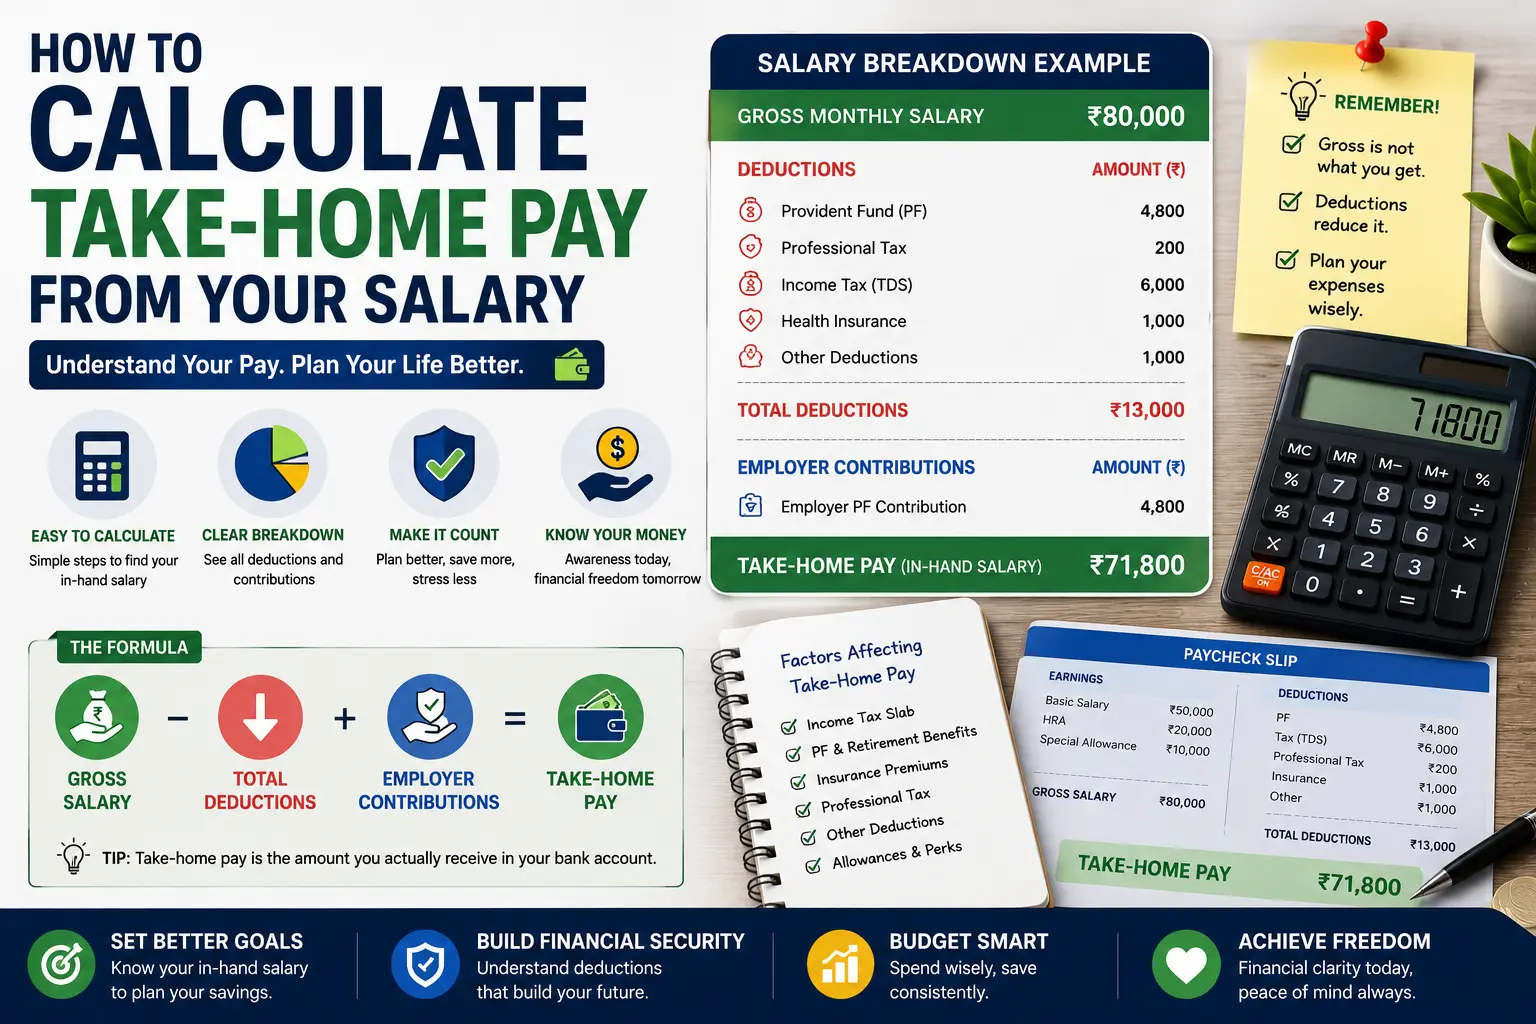
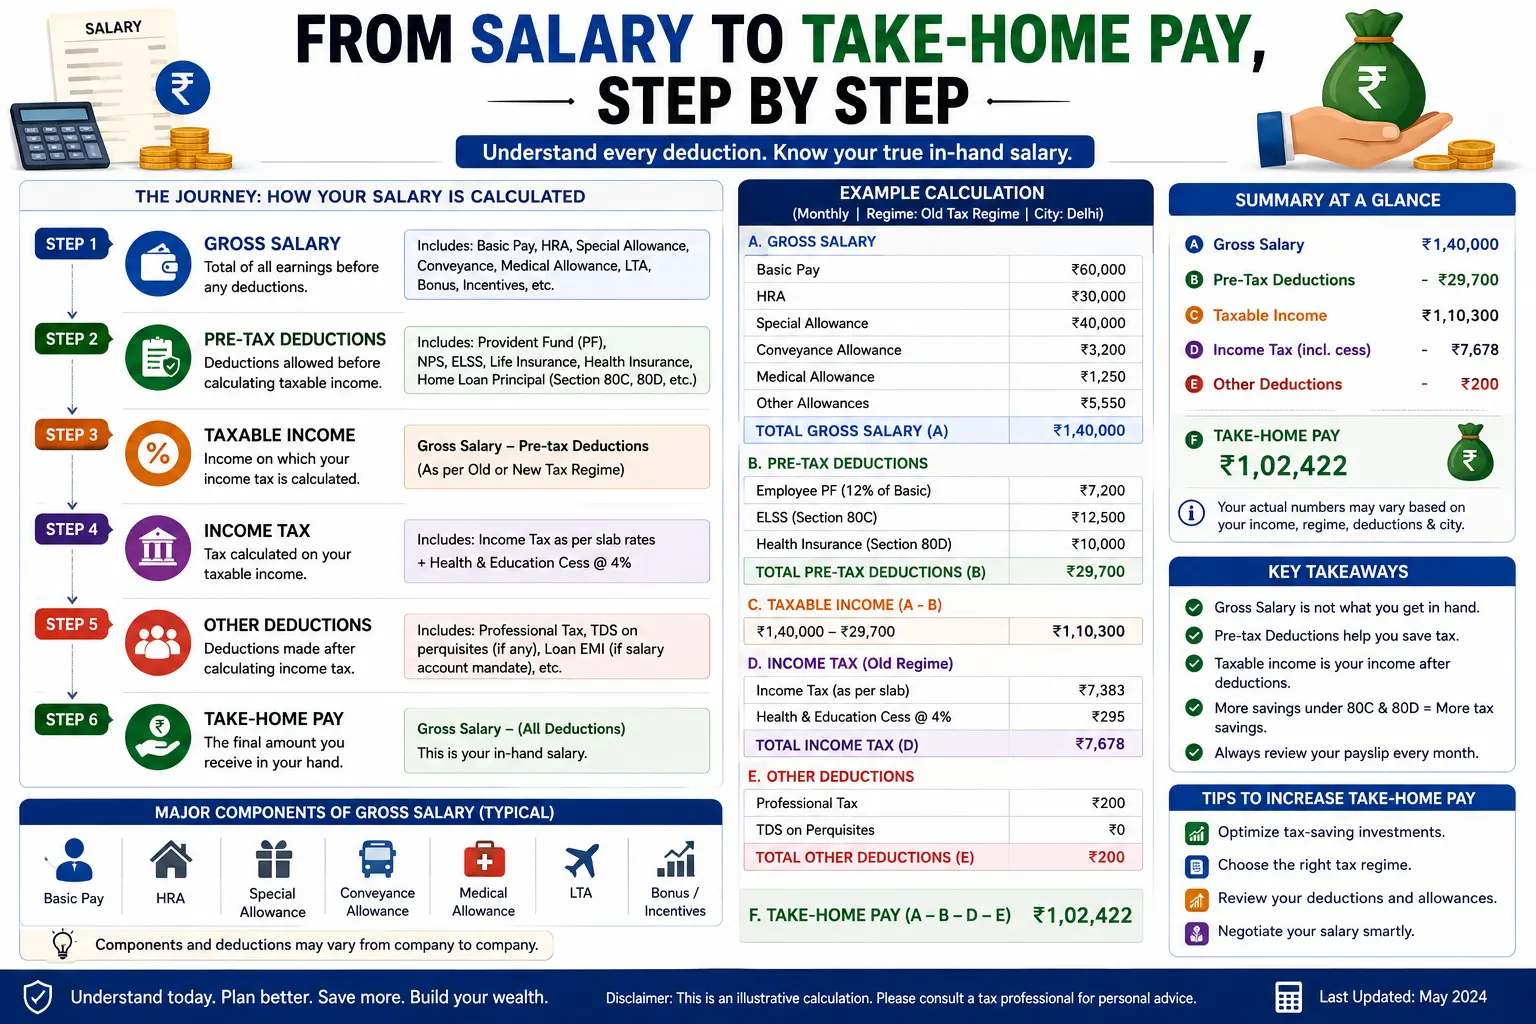
Featured images: final 4 user-provided webps
- cagr-vs-absolute-returns, credit-card-emi-vs-personal-loan,
  hra-exemption-calculation-example installed + all refs swapped
- how-to-calculate-take-home-pay image overwritten in place
- All 21 SEO articles now carry their own featured images (116 refs verified)

diff --git a/blog/hra-exemption-calculation-example.html b/blog/hra-exemption-calculation-example.html
@@ -20,14 +20,14 @@
   <meta property="og:description" content="HRA exemption calculation with worked example: the three-rule least-of formula, metro vs non-metro, old-regime only, common mistakes — with a free HRA calculator.">
   <meta property="og:type" content="article">
   <meta property="og:url" content="https://www.decidecalc.com/blog/hra-exemption-calculation-example">
-  <meta property="og:image" content="https://www.decidecalc.com/assets/img/blog/income-tax-calculator-india-2025-26.webp">
+  <meta property="og:image" content="https://www.decidecalc.com/assets/img/blog/hra-exemption-calculation-example.webp">
   <meta property="og:image:width" content="1536">
   <meta property="og:image:height" content="1024">
   <meta name="twitter:card" content="summary_large_image">
   <meta name="twitter:title" content="HRA Exemption Calculation With Example (2026): How Much Tax Can You Save? | DecideCalc">
   <meta name="twitter:description" content="HRA exemption calculation with worked example: the three-rule least-of formula, metro vs non-metro, old-regime only, common mistakes — with a free HRA calculator.">
-  <meta name="twitter:image" content="https://www.decidecalc.com/assets/img/blog/income-tax-calculator-india-2025-26.webp">
-  <script type="application/ld+json">{"@context":"https://schema.org","@type":"Article","headline":"HRA Exemption Explained: How Much Tax Can You Actually Save?","description":"HRA exemption calculation with worked example: the three-rule least-of formula, metro vs non-metro, old-regime only, common mistakes — with a free HRA calculator.","author":{"@type":"Organization","name":"DecideCalc"},"publisher":{"@type":"Organization","name":"DecideCalc"},"mainEntityOfPage":"https://www.decidecalc.com/blog/hra-exemption-calculation-example","image":{"@type":"ImageObject","url":"https://www.decidecalc.com/assets/img/blog/income-tax-calculator-india-2025-26.webp","width":1536,"height":1024},"datePublished":"2026-08-16","dateModified":"2026-08-16"}</script>
+  <meta name="twitter:image" content="https://www.decidecalc.com/assets/img/blog/hra-exemption-calculation-example.webp">
+  <script type="application/ld+json">{"@context":"https://schema.org","@type":"Article","headline":"HRA Exemption Explained: How Much Tax Can You Actually Save?","description":"HRA exemption calculation with worked example: the three-rule least-of formula, metro vs non-metro, old-regime only, common mistakes — with a free HRA calculator.","author":{"@type":"Organization","name":"DecideCalc"},"publisher":{"@type":"Organization","name":"DecideCalc"},"mainEntityOfPage":"https://www.decidecalc.com/blog/hra-exemption-calculation-example","image":{"@type":"ImageObject","url":"https://www.decidecalc.com/assets/img/blog/hra-exemption-calculation-example.webp","width":1536,"height":1024},"datePublished":"2026-08-16","dateModified":"2026-08-16"}</script>
   <script type="application/ld+json">{"@context":"https://schema.org","@type":"FAQPage","mainEntity":[{"@type":"Question","name":"How is HRA exemption calculated?","acceptedAnswer":{"@type":"Answer","text":"It is the least of: (1) actual HRA received, (2) rent paid minus 10% of basic + DA, (3) 50% of basic + DA in metros (Delhi, Mumbai, Kolkata, Chennai) or 40% elsewhere."}},{"@type":"Question","name":"Can I claim HRA exemption in the new tax regime?","acceptedAnswer":{"@type":"Answer","text":"No — HRA exemption is available only under the old regime. If your rent is high, this alone can make the old regime cheaper despite the new regime’s lower slabs."}},{"@type":"Question","name":"Is Bengaluru a metro city for HRA?","acceptedAnswer":{"@type":"Answer","text":"No. Only Delhi, Mumbai, Kolkata and Chennai qualify for the 50% rule; Bengaluru, Hyderabad, Pune and all other cities use 40%."}},{"@type":"Question","name":"Can I pay rent to my parents and claim HRA?","acceptedAnswer":{"@type":"Answer","text":"Yes, if genuine: an actual rent agreement, real monthly transfers, and the parents reporting it as taxable income. Documentary honesty is what survives scrutiny."}},{"@type":"Question","name":"What if I pay rent but my employer does not pay me HRA?","acceptedAnswer":{"@type":"Answer","text":"There is no HRA exemption without HRA in your salary. Self-employed taxpayers instead get the far smaller Section 80GG deduction (capped at ₹5,000/month) under the old regime."}},{"@type":"Question","name":"What documents do I need for an HRA claim?","acceptedAnswer":{"@type":"Answer","text":"Rent receipts or bank transfer records, the rent agreement, and the landlord’s PAN if total yearly rent exceeds ₹1 lakh."}}]}</script>
 <script type="application/ld+json">{"@context":"https://schema.org","@type":"BreadcrumbList","itemListElement":[{"@type":"ListItem","position":1,"name":"Home","item":"https://www.decidecalc.com/"},{"@type":"ListItem","position":2,"name":"Blog","item":"https://www.decidecalc.com/blog/"},{"@type":"ListItem","position":3,"name":"HRA Exemption Calculation With Example"}]}</script>
   <!-- Google tag (gtag.js) -->
@@ -43,7 +43,7 @@
   <main class="container blog-post" style="padding-top:30px;padding-bottom:60px">
     <nav class="breadcrumb"><a href="/">Home</a><span class="sep">/</span><a href="/blog/">Blog</a><span class="sep">/</span><span>HRA Exemption</span></nav>
     <header class="article-header"><div class="article-meta-top"><span class="article-cat">Salary & tax</span><span class="article-date">August 16, 2026</span></div><h1>HRA Exemption Explained: How Much Tax Can You Actually Save?</h1><p class="article-subtitle">The least of three numbers decides your HRA exemption — and only in the old regime. Here is the formula, three worked examples, and the mistakes that trigger notices.</p></header>
-    <div class="article-hero-img"><img src="/assets/img/blog/income-tax-calculator-india-2025-26.webp" alt="HRA exemption calculation example India — three-rule least of formula with metro and non-metro worked cases" loading="eager" decoding="async" fetchpriority="high" style="width:100%;height:auto;aspect-ratio:1536/1024;object-fit:cover;display:block"></div>
+    <div class="article-hero-img"><img src="/assets/img/blog/hra-exemption-calculation-example.webp" alt="HRA exemption calculation example India — three-rule least of formula with metro and non-metro worked cases" loading="eager" decoding="async" fetchpriority="high" style="width:100%;height:auto;aspect-ratio:1536/1024;object-fit:cover;display:block"></div>
     <article class="article-content">
       <p>House Rent Allowance is the most commonly claimed — and most commonly mis-claimed — salary exemption in India. The calculation itself is one line: your exemption is the <strong>least of three amounts</strong>. The trouble is in the inputs: which city counts as metro, whose rent counts, and the ₹1 lakh/year cash-payment reporting rule. Work through the examples below and your claim will survive any notice.</p>
 

diff --git a/blog/credit-card-emi-vs-personal-loan.html b/blog/credit-card-emi-vs-personal-loan.html
@@ -20,14 +20,14 @@
   <meta property="og:description" content="Credit card EMI vs personal loan: interest rates, processing fees, GST and foreclosure compared on a ₹1 lakh, 12-month example — when the card is cheaper, and when it is a trap.">
   <meta property="og:type" content="article">
   <meta property="og:url" content="https://www.decidecalc.com/blog/credit-card-emi-vs-personal-loan">
-  <meta property="og:image" content="https://www.decidecalc.com/assets/img/blog/credit-card-minimum-payment-payoff-india.webp">
+  <meta property="og:image" content="https://www.decidecalc.com/assets/img/blog/credit-card-emi-vs-personal-loan.webp">
   <meta property="og:image:width" content="1536">
   <meta property="og:image:height" content="1024">
   <meta name="twitter:card" content="summary_large_image">
   <meta name="twitter:title" content="Credit Card EMI vs Personal Loan: Which Costs Less in India? (2026) | DecideCalc">
   <meta name="twitter:description" content="Credit card EMI vs personal loan: interest rates, processing fees, GST and foreclosure compared on a ₹1 lakh, 12-month example — when the card is cheaper, and when it is a trap.">
-  <meta name="twitter:image" content="https://www.decidecalc.com/assets/img/blog/credit-card-minimum-payment-payoff-india.webp">
-  <script type="application/ld+json">{"@context":"https://schema.org","@type":"Article","headline":"Credit Card EMI vs Personal Loan: Which Costs Less?","description":"Credit card EMI vs personal loan: interest rates, processing fees, GST and foreclosure compared on a ₹1 lakh, 12-month example — when the card is cheaper, and when it is a trap.","author":{"@type":"Organization","name":"DecideCalc"},"publisher":{"@type":"Organization","name":"DecideCalc"},"mainEntityOfPage":"https://www.decidecalc.com/blog/credit-card-emi-vs-personal-loan","image":{"@type":"ImageObject","url":"https://www.decidecalc.com/assets/img/blog/credit-card-minimum-payment-payoff-india.webp","width":1536,"height":1024},"datePublished":"2026-08-16","dateModified":"2026-08-16"}</script>
+  <meta name="twitter:image" content="https://www.decidecalc.com/assets/img/blog/credit-card-emi-vs-personal-loan.webp">
+  <script type="application/ld+json">{"@context":"https://schema.org","@type":"Article","headline":"Credit Card EMI vs Personal Loan: Which Costs Less?","description":"Credit card EMI vs personal loan: interest rates, processing fees, GST and foreclosure compared on a ₹1 lakh, 12-month example — when the card is cheaper, and when it is a trap.","author":{"@type":"Organization","name":"DecideCalc"},"publisher":{"@type":"Organization","name":"DecideCalc"},"mainEntityOfPage":"https://www.decidecalc.com/blog/credit-card-emi-vs-personal-loan","image":{"@type":"ImageObject","url":"https://www.decidecalc.com/assets/img/blog/credit-card-emi-vs-personal-loan.webp","width":1536,"height":1024},"datePublished":"2026-08-16","dateModified":"2026-08-16"}</script>
   <script type="application/ld+json">{"@context":"https://schema.org","@type":"FAQPage","mainEntity":[{"@type":"Question","name":"Which is cheaper — credit card EMI or personal loan?","acceptedAnswer":{"@type":"Answer","text":"For amounts above ~₹1 lakh or tenures beyond a year, personal loans usually win by ₹10,000–50,000 (lower reducing-balance rate, no GST on interest). For small, short purchases, a card EMI or no-cost EMI is fine."}},{"@type":"Question","name":"Why is credit card EMI interest charged with GST?","acceptedAnswer":{"@type":"Answer","text":"Card EMIs are structured as a service by the card issuer, so 18% GST applies on the interest component (and fees). Personal-loan interest is exempt from GST — only the processing fee attracts it."}},{"@type":"Question","name":"What does a 16% flat rate mean on a card EMI?","acceptedAnswer":{"@type":"Answer","text":"Flat rates are charged on the full original principal for the whole tenure. A 16% flat rate approximates 28–30% on a reducing-balance basis — roughly double the number advertised."}},{"@type":"Question","name":"Does converting a purchase to EMI hurt my credit score?","acceptedAnswer":{"@type":"Answer","text":"The EMI blocks part of your card limit, raising utilisation if the limit is small — that can dip your score. It does not add a new loan account, and on-time EMI payments help over time."}},{"@type":"Question","name":"Can I prepay a credit card EMI?","acceptedAnswer":{"@type":"Answer","text":"Most issuers allow foreclosure with a 3–5% penalty on the outstanding plus GST. Some waive it after a set number of EMIs — check your issuer’s terms before converting."}}]}</script>
 <script type="application/ld+json">{"@context":"https://schema.org","@type":"BreadcrumbList","itemListElement":[{"@type":"ListItem","position":1,"name":"Home","item":"https://www.decidecalc.com/"},{"@type":"ListItem","position":2,"name":"Blog","item":"https://www.decidecalc.com/blog/"},{"@type":"ListItem","position":3,"name":"Credit Card EMI vs Personal Loan: Which Is Better?"}]}</script>
   <!-- Google tag (gtag.js) -->
@@ -43,7 +43,7 @@
   <main class="container blog-post" style="padding-top:30px;padding-bottom:60px">
     <nav class="breadcrumb"><a href="/">Home</a><span class="sep">/</span><a href="/blog/">Blog</a><span class="sep">/</span><span>Card EMI vs Personal Loan</span></nav>
     <header class="article-header"><div class="article-meta-top"><span class="article-cat">Loans</span><span class="article-date">August 16, 2026</span></div><h1>Credit Card EMI vs Personal Loan: Which Costs Less?</h1><p class="article-subtitle">Both convert a purchase into monthly payments. One is a 15-minute tap on your phone; the other is a 2-day approval. The 3%–8% rate gap decides which you should tap.</p></header>
-    <div class="article-hero-img"><img src="/assets/img/blog/credit-card-minimum-payment-payoff-india.webp" alt="Credit card EMI versus personal loan in India — interest, fees and total cost compared" loading="eager" decoding="async" fetchpriority="high" style="width:100%;height:auto;aspect-ratio:1536/1024;object-fit:cover;display:block"></div>
+    <div class="article-hero-img"><img src="/assets/img/blog/credit-card-emi-vs-personal-loan.webp" alt="Credit card EMI versus personal loan in India — interest, fees and total cost compared" loading="eager" decoding="async" fetchpriority="high" style="width:100%;height:auto;aspect-ratio:1536/1024;object-fit:cover;display:block"></div>
     <article class="article-content">
       <p>Big bill, empty wallet, two buttons: "Convert to EMI" on your credit card app, or a personal loan application. Card EMIs are instantly approved against your existing limit; personal loans take longer but price far lower for anyone with a decent credit score. This guide puts exact rupee numbers on the choice — including the GST trap nobody advertises.</p>
 

diff --git a/blog/cagr-vs-absolute-returns.html b/blog/cagr-vs-absolute-returns.html
@@ -20,14 +20,14 @@
   <meta property="og:description" content="CAGR vs absolute returns explained with a ₹5 lakh example: why your fund app’s headline number depends on the timeframe shown, plus the CAGR formula and free calculator.">
   <meta property="og:type" content="article">
   <meta property="og:url" content="https://www.decidecalc.com/blog/cagr-vs-absolute-returns">
-  <meta property="og:image" content="https://www.decidecalc.com/assets/img/blog/how-to-calculate-investment-return.webp">
+  <meta property="og:image" content="https://www.decidecalc.com/assets/img/blog/cagr-vs-absolute-returns.webp">
   <meta property="og:image:width" content="1536">
   <meta property="og:image:height" content="1024">
   <meta name="twitter:card" content="summary_large_image">
   <meta name="twitter:title" content="CAGR vs Absolute Returns: Why Your Mutual Fund App Might Mislead You (2026) | DecideCalc">
   <meta name="twitter:description" content="CAGR vs absolute returns explained with a ₹5 lakh example: why your fund app’s headline number depends on the timeframe shown, plus the CAGR formula and free calculator.">
-  <meta name="twitter:image" content="https://www.decidecalc.com/assets/img/blog/how-to-calculate-investment-return.webp">
-  <script type="application/ld+json">{"@context":"https://schema.org","@type":"Article","headline":"CAGR vs Absolute Returns: Why Your Mutual Fund App Might Mislead You","description":"CAGR vs absolute returns explained with a ₹5 lakh example: why your fund app’s headline number depends on the timeframe shown, plus the CAGR formula and free calculator.","author":{"@type":"Organization","name":"DecideCalc"},"publisher":{"@type":"Organization","name":"DecideCalc"},"mainEntityOfPage":"https://www.decidecalc.com/blog/cagr-vs-absolute-returns","image":{"@type":"ImageObject","url":"https://www.decidecalc.com/assets/img/blog/how-to-calculate-investment-return.webp","width":1536,"height":1024},"datePublished":"2026-08-16","dateModified":"2026-08-16"}</script>
+  <meta name="twitter:image" content="https://www.decidecalc.com/assets/img/blog/cagr-vs-absolute-returns.webp">
+  <script type="application/ld+json">{"@context":"https://schema.org","@type":"Article","headline":"CAGR vs Absolute Returns: Why Your Mutual Fund App Might Mislead You","description":"CAGR vs absolute returns explained with a ₹5 lakh example: why your fund app’s headline number depends on the timeframe shown, plus the CAGR formula and free calculator.","author":{"@type":"Organization","name":"DecideCalc"},"publisher":{"@type":"Organization","name":"DecideCalc"},"mainEntityOfPage":"https://www.decidecalc.com/blog/cagr-vs-absolute-returns","image":{"@type":"ImageObject","url":"https://www.decidecalc.com/assets/img/blog/cagr-vs-absolute-returns.webp","width":1536,"height":1024},"datePublished":"2026-08-16","dateModified":"2026-08-16"}</script>
   <script type="application/ld+json">{"@context":"https://schema.org","@type":"FAQPage","mainEntity":[{"@type":"Question","name":"What is the difference between absolute return and CAGR?","acceptedAnswer":{"@type":"Answer","text":"Absolute return is the total percentage change between start and end values. CAGR converts that into a smoothed per-year growth rate: (Final ÷ Initial)^(1/years) − 1. Use absolute under 1 year, CAGR beyond."}},{"@type":"Question","name":"Why does my mutual fund app show a huge \"return\" number?","acceptedAnswer":{"@type":"Answer","text":"Apps often display absolute returns, which grow with time even at mediocre annual rates — 100% absolute over 20 years is only 3.5% CAGR. Check which measure and period the screen is showing."}},{"@type":"Question","name":"What is XIRR in SIP returns?","acceptedAnswer":{"@type":"Answer","text":"XIRR is the annualised return when money is invested in instalments — it weights each SIP’s own holding period. For SIPs, XIRR (not CAGR) is the correct measure."}},{"@type":"Question","name":"Is 12% CAGR a good return?","acceptedAnswer":{"@type":"Answer","text":"For diversified equity funds over long periods, 10–12% CAGR is a healthy, realistic expectation. Consistently higher requires either luck or concentration risk."}},{"@type":"Question","name":"How do I calculate CAGR with an example?","acceptedAnswer":{"@type":"Answer","text":"CAGR = (End ÷ Start)^(1 ÷ years) − 1. ₹5 lakh → ₹7.35 lakh over 3 years: (1.47)^(1/3) − 1 ≈ 13.7% per year."}}]}</script>
 <script type="application/ld+json">{"@context":"https://schema.org","@type":"BreadcrumbList","itemListElement":[{"@type":"ListItem","position":1,"name":"Home","item":"https://www.decidecalc.com/"},{"@type":"ListItem","position":2,"name":"Blog","item":"https://www.decidecalc.com/blog/"},{"@type":"ListItem","position":3,"name":"CAGR vs Absolute Returns"}]}</script>
   <!-- Google tag (gtag.js) -->
@@ -43,7 +43,7 @@
   <main class="container blog-post" style="padding-top:30px;padding-bottom:60px">
     <nav class="breadcrumb"><a href="/">Home</a><span class="sep">/</span><a href="/blog/">Blog</a><span class="sep">/</span><span>CAGR vs Absolute Returns</span></nav>
     <header class="article-header"><div class="article-meta-top"><span class="article-cat">Investing</span><span class="article-date">August 16, 2026</span></div><h1>CAGR vs Absolute Returns: Why Your Mutual Fund App Might Mislead You</h1><p class="article-subtitle">Your app shows "42% returns" on a fund you held for three years — technically true, practically meaningless. Here is the difference between absolute and annualised returns, and which one to trust.</p></header>
-    <div class="article-hero-img"><img src="/assets/img/blog/how-to-calculate-investment-return.webp" alt="CAGR versus absolute returns on mutual fund investments — formula and worked example comparison" loading="eager" decoding="async" fetchpriority="high" style="width:100%;height:auto;aspect-ratio:1536/1024;object-fit:cover;display:block"></div>
+    <div class="article-hero-img"><img src="/assets/img/blog/cagr-vs-absolute-returns.webp" alt="CAGR versus absolute returns on mutual fund investments — formula and worked example comparison" loading="eager" decoding="async" fetchpriority="high" style="width:100%;height:auto;aspect-ratio:1536/1024;object-fit:cover;display:block"></div>
     <article class="article-content">
       <p>Open any mutual fund app and you’ll see a big green number next to your investment. Whether that number is honest depends on one thing the app rarely says: over how long? "Absolute return" measures the total percentage change; "CAGR" converts it to a per-year rate. For anything held over a year, comparing — or celebrating — absolute returns is how investors fool themselves.</p>
 

diff --git a/blog/index.html b/blog/index.html
@@ -166,7 +166,7 @@
         </div>
       </article>
       <article class="card blog-card reveal d0" data-search="hra exemption calculation example metro tax save">
-        <div class="blog-card-top"><img src="/assets/img/blog/income-tax-calculator-india-2025-26.webp" alt="HRA Exemption Explained: How Much Tax Can You Actually Save?" loading="lazy" width="1536" height="1024" style="width:100%;height:auto;aspect-ratio:3/2;object-fit:cover;display:block"></div>
+        <div class="blog-card-top"><img src="/assets/img/blog/hra-exemption-calculation-example.webp" alt="HRA Exemption Explained: How Much Tax Can You Actually Save?" loading="lazy" width="1536" height="1024" style="width:100%;height:auto;aspect-ratio:3/2;object-fit:cover;display:block"></div>
         <div class="blog-card-body">
           <div class="blog-meta"><span>Salary & tax</span><span class="dot"></span><span>7 min read</span></div>
           <h2>HRA Exemption Explained: How Much Tax Can You Actually Save?</h2>
@@ -175,7 +175,7 @@
         </div>
       </article>
       <article class="card blog-card reveal d1" data-search="credit card emi personal loan gst interest cost">
-        <div class="blog-card-top"><img src="/assets/img/blog/credit-card-minimum-payment-payoff-india.webp" alt="Credit Card EMI vs Personal Loan: Which Costs Less?" loading="lazy" width="1536" height="1024" style="width:100%;height:auto;aspect-ratio:3/2;object-fit:cover;display:block"></div>
+        <div class="blog-card-top"><img src="/assets/img/blog/credit-card-emi-vs-personal-loan.webp" alt="Credit Card EMI vs Personal Loan: Which Costs Less?" loading="lazy" width="1536" height="1024" style="width:100%;height:auto;aspect-ratio:3/2;object-fit:cover;display:block"></div>
         <div class="blog-card-body">
           <div class="blog-meta"><span>Loans</span><span class="dot"></span><span>6 min read</span></div>
           <h2>Credit Card EMI vs Personal Loan: Which Costs Less?</h2>
@@ -238,7 +238,7 @@
         </div>
       </article>
       <article class="card blog-card reveal d2" data-search="cagr absolute returns difference xirr mutual fund app">
-        <div class="blog-card-top"><img src="/assets/img/blog/how-to-calculate-investment-return.webp" alt="CAGR vs Absolute Returns: Why Your Fund App Misleads You" loading="lazy" width="1536" height="1024" style="width:100%;height:auto;aspect-ratio:3/2;object-fit:cover;display:block"></div>
+        <div class="blog-card-top"><img src="/assets/img/blog/cagr-vs-absolute-returns.webp" alt="CAGR vs Absolute Returns: Why Your Fund App Misleads You" loading="lazy" width="1536" height="1024" style="width:100%;height:auto;aspect-ratio:3/2;object-fit:cover;display:block"></div>
         <div class="blog-card-body">
           <div class="blog-meta"><span>Investing</span><span class="dot"></span><span>6 min read</span></div>
           <h2>CAGR vs Absolute Returns: Why Your Fund App Misleads You</h2>
